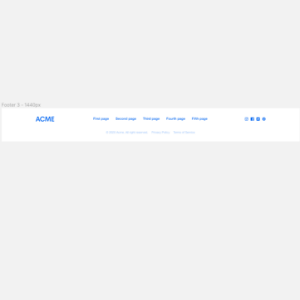
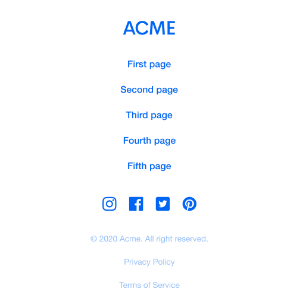
Update static styling

diff --git a/index.html b/index.html
@@ -17,115 +17,116 @@
     />
   </head>
   <style>
-    .footer--simple__inner {
-      display: grid;
-    }
-    .footer--simple__inner > * {
-      justify-self: center;
-    }
-    .footer--simple__bottom {
-      display: grid;
-    }
-    .footer--simple__bottom > * {
-      justify-self: center;
+    .footer-simple a:hover {
+      text-decoration: underline;
     }
 
-    .footer--simple__logo {
-      margin-bottom: 10px;
+    .footer-simple .footer-simple__logo {
+      max-height: 100px;
     }
 
-    .footer--simple__list li:not(:first-child) a {
-      margin-left: 10px;
+    .footer-simple .footer-simple__socials {
+      font-size: 22px;
+    }
+
+    .footer-simple .footer-simple__links ul li {
+      margin: 5px 0;
+      text-decoration: none;
+      font-weight: 500;
+    }
+
+    .footer-simple .footer-simple__link {
+      text-decoration: none;
+    }
+
+    .footer-simple .footer-simple__copy,
+    .footer-simple .footer-simple__secondary a {
+      color: #a9cbfa;
     }
 
     @media only screen and (min-width: 768px) {
-      .footer--simple__inner {
-        display: grid;
-        grid-template-columns: 10% 1fr 15%;
-      }
-      .footer--simple__logo {
-        justify-self: left;
-        margin-bottom: initial;
-      }
-      .footer--simple__socials {
-        justify-self: right;
+      .footer-simple .footer-simple__socials {
+        font-size: 18px;
       }
 
-      .footer--simple__bottom {
-        grid-template-columns: 1fr 1fr;
-        column-gap: 20px;
-      }
-
-      .footer--simple__bottom a,
-      .footer--simple__bottom p {
-        color: #8eb9f9;
-      }
-
-      .footer--simple__copy-text {
-        justify-self: right;
-      }
-
-      .footer--simple__copy-pages {
-        justify-self: left;
+      .footer-simple .footer-simple__secondary ul li,
+      .footer-simple .footer-simple__links ul li {
+        display: inline-block;
+        margin: 0 10px 0 0;
       }
     }
   </style>
-  <body class="d-flex flex-column h-100">
+  <body>
     <!-- FOOTER SIMPLE -->
-    <footer class="footer--simple mt-auto py-3">
+    <footer class="footer-simple">
       <div class="container">
-        <div class="footer--simple__inner">
-          <div class="footer--simple__logo">
-            <h3>
-              <a href="#"> ACME </a>
-            </h3>
+        <div class="row">
+          <div class="col-md-3">
+            <div
+              class="footer-simple__logo text-center text-md-start py-2 py-md-0"
+            >
+              <h3>
+                <a href="#"> ACME </a>
+              </h3>
+            </div>
           </div>
-          <div class="footer--simple__navigation">
-            <ul class="footer--simple__list list-inline">
-              <li class="list-inline-item">
-                <a href="#"> Home </a>
+          <div class="col-md-7 footer-simple__links">
+            <ul class="list-unstyled text-center text-md-start">
+              <li>
+                <a class="footer-simple__link" href="#"> First Page </a>
               </li>
-              <li class="list-inline-item">
-                <a href="#"> About </a>
+              <li>
+                <a class="footer-simple__link" href="#"> Second Page </a>
               </li>
-              <li class="list-inline-item">
-                <a href="#"> Contact Us </a>
+              <li>
+                <a class="footer-simple__link" href="#"> Third Page </a>
+              </li>
+              <li>
+                <a class="footer-simple__link" href="#"> Fourth Page </a>
               </li>
             </ul>
           </div>
 
-          <div class="footer--simple__socials">
-            <ul class="list-inline">
-              <li class="list-inline-item">
-                <a href="#">
-                  <i class="bi bi-facebook"></i>
-                </a>
-              </li>
-              <li class="list-inline-item">
-                <a href="#">
-                  <i class="bi bi-twitter"></i>
-                </a>
-              </li>
-              <li class="list-inline-item">
-                <a href="#">
-                  <i class="bi bi-instagram"></i>
-                </a>
-              </li>
-            </ul>
+          <div class="col-md-2">
+            <div class="footer-simple__socials text-center text-md-end">
+              <ul class="list-inline">
+                <li class="list-inline-item">
+                  <a href="#">
+                    <i class="bi bi-facebook"></i>
+                  </a>
+                </li>
+                <li class="list-inline-item">
+                  <a href="#">
+                    <i class="bi bi-twitter"></i>
+                  </a>
+                </li>
+                <li class="list-inline-item">
+                  <a href="#">
+                    <i class="bi bi-instagram"></i>
+                  </a>
+                </li>
+              </ul>
+            </div>
           </div>
         </div>
-        <div class="footer--simple__bottom pt-2">
-          <p class="footer--simple__copy-text">
-            Lorem ipsum dolor sit, amet consectetur adipisicing elit.
-          </p>
-          <ul class="footer--simple__copy-pages list-inline">
-            <li class="list-inline-item">
-              <a href="#"> Privacy Policy </a>
-            </li>
-            <li class="list-inline-item">
-              <a href="#"> Terms of Service </a>
-            </li>
-          </ul>
+        <div class="row">
+          <div class="col-md-6 text-center text-md-end">
+            <div class="footer-simple__copy">
+              <p>© 2020 Acme. All rights reserved.</p>
+            </div>
+          </div>
+          <div class="col-md-6 text-center text-md-start">
+            <div class="footer-simple__secondary">
+              <ul class="list-unstyled">
+                <li>
+                  <a class="footer-simple__link" href="#"> Privacy Policy </a>
+                </li>
+                <li>
+                  <a class="footer-simple__link" href="#"> Terms of Service </a>
+                </li>
+              </ul>
+            </div>
+          </div>
         </div>
       </div>
     </footer>
